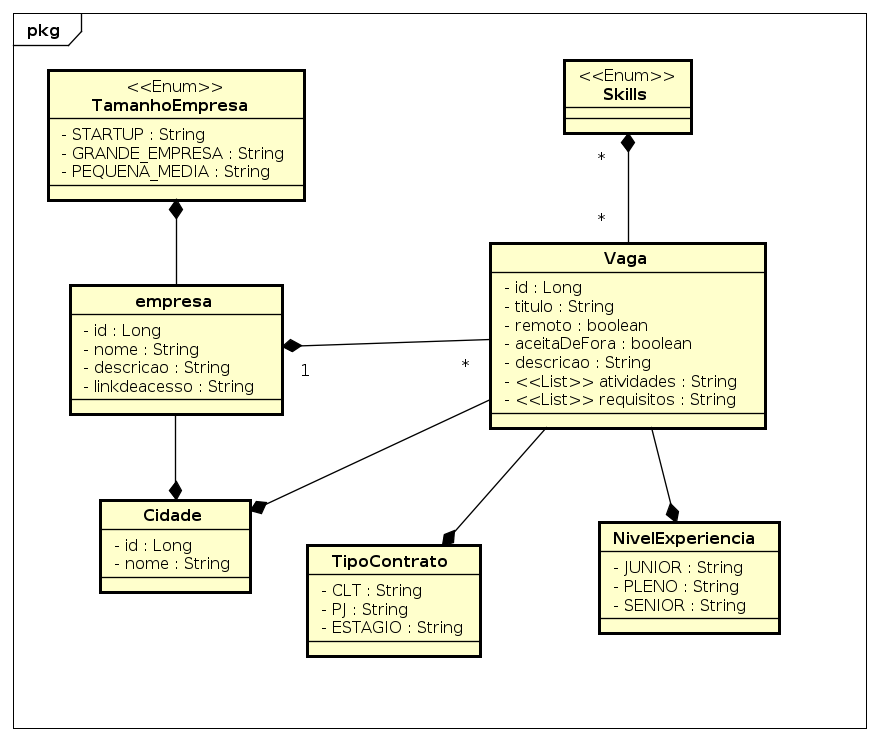
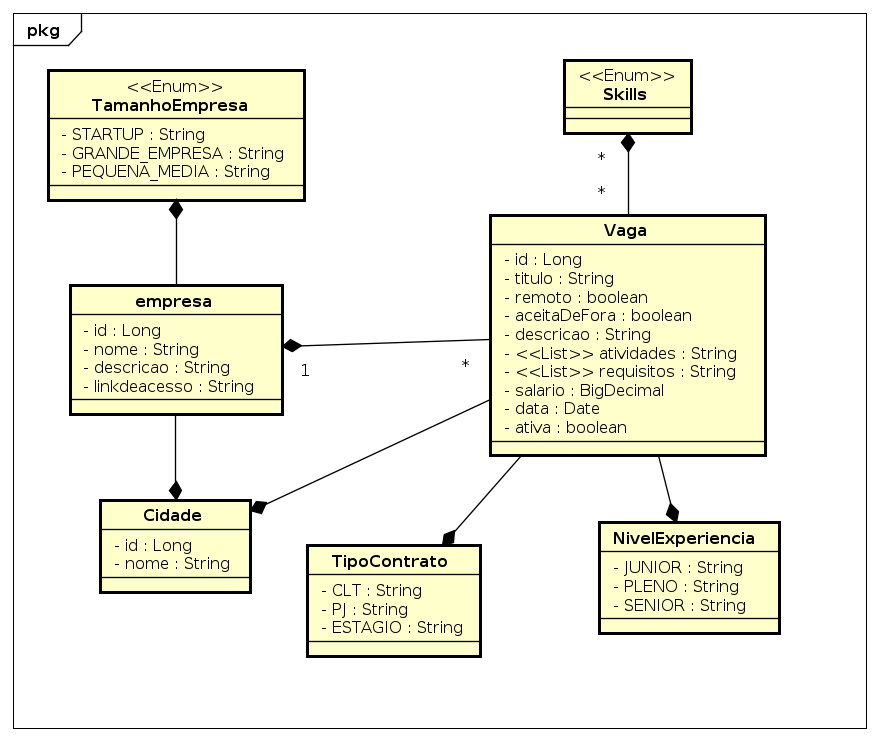
corrigindo class Vaga

Changed region(s): [[0.5523, 0.2794, 0.8898, 0.6208]]

diff --git a/src/main/java/com/marcoswinicios/jobs/entidades/Vaga.java b/src/main/java/com/marcoswinicios/jobs/entidades/Vaga.java
@@ -1,5 +1,7 @@
 package com.marcoswinicios.jobs.entidades;
 
+import java.math.BigDecimal;
+import java.time.LocalDate;
 import java.util.List;
 
 public class Vaga {
@@ -13,11 +15,17 @@ public class Vaga {
 	private List<Skills> skills; 	
 	private List<String> atividades;
 	private List<String> requisitos;
+	private BigDecimal salario;
+	private LocalDate dataCriacao;
+	private boolean ativa;
 	
 	public Vaga() {}
 	
+	
+
 	public Vaga(String titulo, boolean remoto, boolean aceitaDeFora, String descricao, TipoContrato tipoContrato,
-			NivelExperiencia nivelExperiencia, List<Skills> skills, List<String> atividades, List<String> requisitos) {
+			NivelExperiencia nivelExperiencia, List<Skills> skills, List<String> atividades, List<String> requisitos,
+			BigDecimal salario, LocalDate dataCriacao, boolean ativa) {
 		super();
 		this.titulo = titulo;
 		this.remoto = remoto;
@@ -28,11 +36,16 @@ public class Vaga {
 		this.skills = skills;
 		this.atividades = atividades;
 		this.requisitos = requisitos;
+		this.salario = salario;
+		this.dataCriacao = dataCriacao;
+		this.ativa = ativa;
 	}
+
+
 
 	public Vaga(Long id, String titulo, boolean remoto, boolean aceitaDeFora, String descricao,
 			TipoContrato tipoContrato, NivelExperiencia nivelExperiencia, List<Skills> skills, List<String> atividades,
-			List<String> requisitos) {
+			List<String> requisitos, BigDecimal salario, LocalDate dataCriacao, boolean ativa) {
 		super();
 		this.id = id;
 		this.titulo = titulo;
@@ -44,7 +57,12 @@ public class Vaga {
 		this.skills = skills;
 		this.atividades = atividades;
 		this.requisitos = requisitos;
+		this.salario = salario;
+		this.dataCriacao = dataCriacao;
+		this.ativa = ativa;
 	}
+
+		
 
 	public Long getId() {
 		return id;
@@ -96,5 +114,23 @@ public class Vaga {
 	}
 	public List<String> getRequisitos() {
 		return requisitos;
+	}
+	public BigDecimal getSalario() {
+		return salario;
+	}
+	public LocalDate getDataCriacao() {
+		return dataCriacao;
+	}
+	public boolean isAtiva() {
+		return ativa;
+	}
+	public void setSalario(BigDecimal salario) {
+		this.salario = salario;
+	}
+	public void setDataCriacao(LocalDate dataCriacao) {
+		this.dataCriacao = dataCriacao;
+	}
+	public void setAtiva(boolean ativa) {
+		this.ativa = ativa;
 	}
 }
